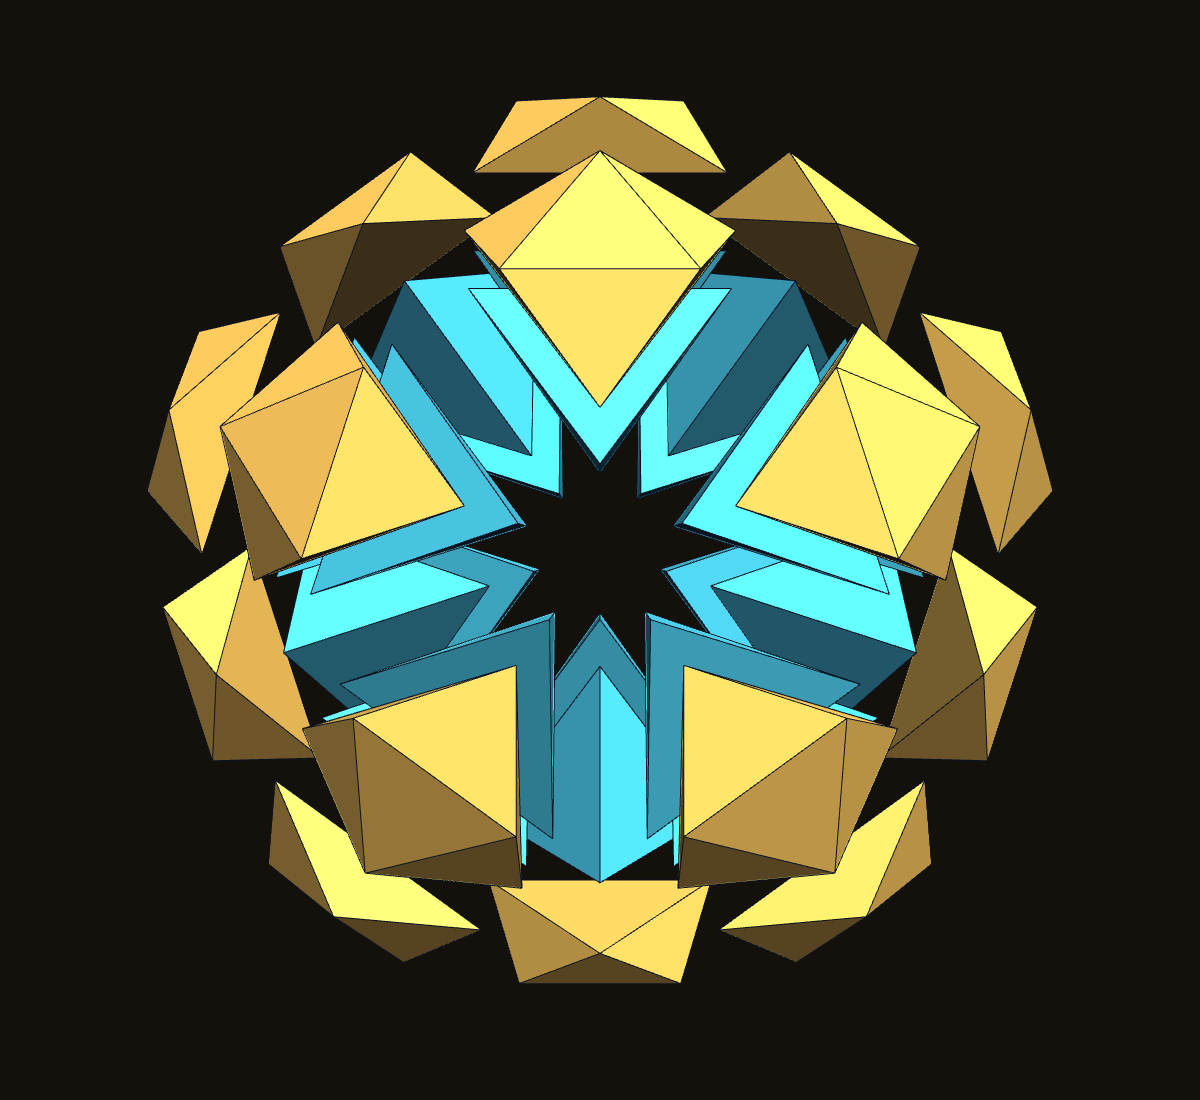
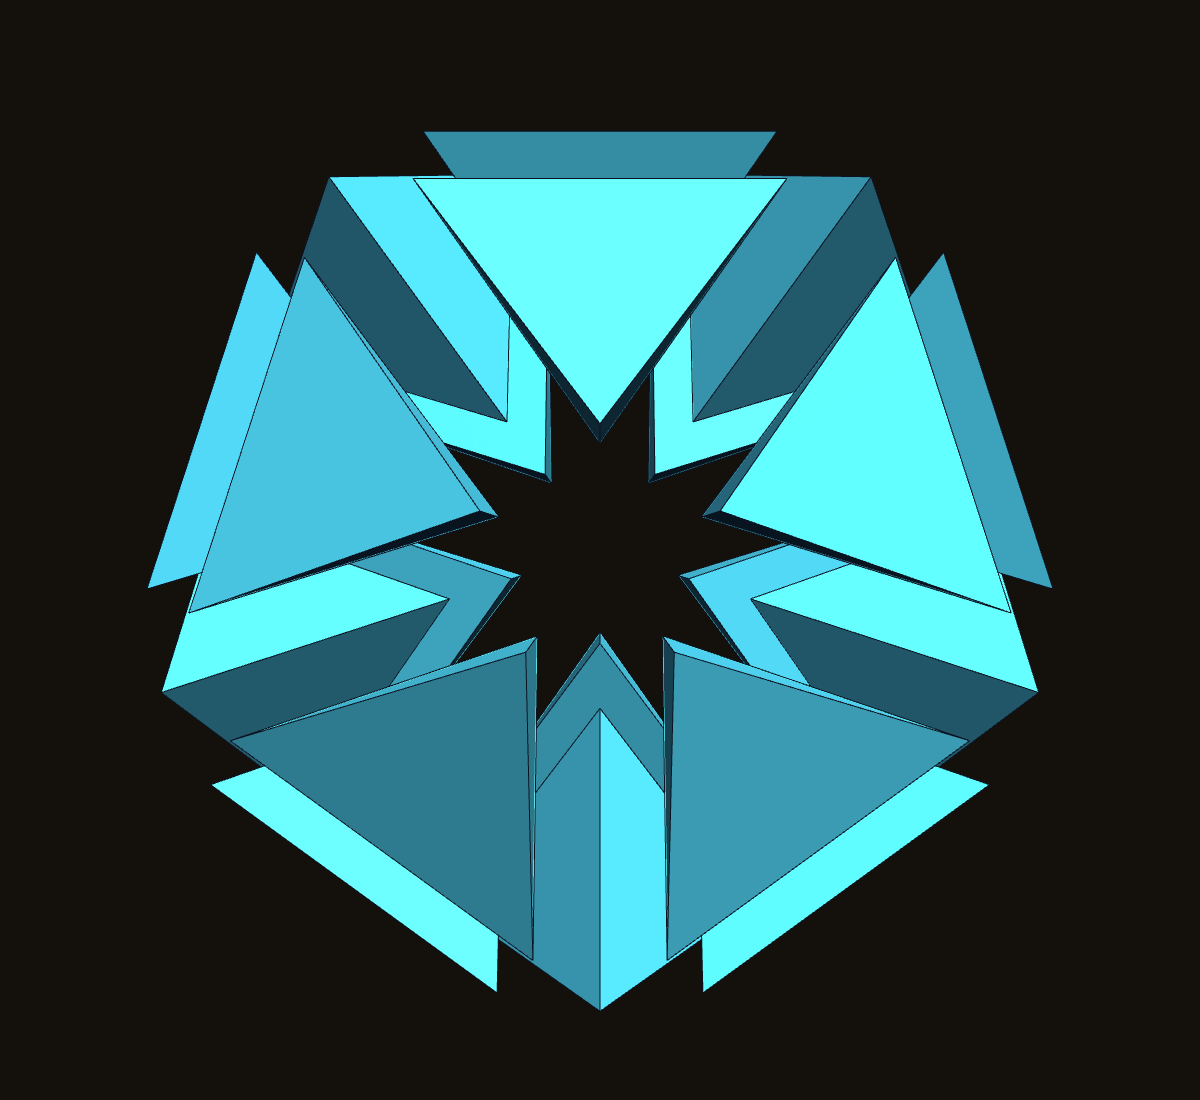
Polyhedraverse: no dome caps; the faceted bases kit is the flat icosahedron of 20 Icosahedral Cleo (DICTO)

diff --git a/studies/2026-10-14-fuji-family/scripts/cleo_sphere_kits.py b/studies/2026-10-14-fuji-family/scripts/cleo_sphere_kits.py
@@ -70,25 +70,23 @@ for f in tris:
 UNIT = units[0] - units[0].mean(0); PYR = pyrs[0] - pyrs[0].mean(0); CAP = caps[0] - caps[0].mean(0)
 pieces['DOMED_UNIT'] = ('Domed unit (Cleo + 3 Penta-cleo)', UNIT)
 pieces['ICOSA_FACE_PYRAMID'] = ('Icosahedral Cleo (face pyramid of the faceted CLEO sphere)', PYR)
-pieces['DOME_CAP'] = ('Dome cap (CLEO sphere)', CAP)
 domed = [place('DOMED_UNIT', UNIT, U) for U in units]
-faceted = [place('ICOSA_FACE_PYRAMID', PYR, P) for P in pyrs] + [place('DOME_CAP', CAP, C) for C in caps]
+faceted = [place('ICOSA_FACE_PYRAMID', PYR, P) for P in pyrs]
 vol = lambda S: ConvexHull(S).volume
 v_cleo, v_pocket, v_penta = vol(CLEO), vol(POCKET), vol(PENTA)
 checks = dict(scale_radius=side, icosidodecahedron=H.volume, kit_A=20 * v_cleo + 12 * v_pocket, kit_B=20 * v_cleo + 60 * v_penta,
-              kit_domed=20 * vol(UNIT), kit_faceted=20 * (vol(PYR) + vol(CAP)), unit_is_cleo_plus_3=abs(vol(UNIT) - v_cleo - 3 * v_penta) < 1e-9,
+              kit_domed=20 * vol(UNIT), icosahedron_from_20=20 * vol(PYR), unit_is_cleo_plus_3=abs(vol(UNIT) - v_cleo - 3 * v_penta) < 1e-9,
               icosahedron_edge=float(np.linalg.norm(pyrs[0][1] - pyrs[0][2])), icosahedron_radius=float(np.linalg.norm(pyrs[0][1])),
               cap_edges=sorted({round(float(np.linalg.norm(a - b)), 6) for a, b in itertools.combinations(CAP, 2)}), cap_volume=vol(CAP), pyramid_volume=vol(PYR),
               penta_is_fifth=abs(5 * v_penta - v_pocket) < 1e-12)
 print(checks)
 assert abs(checks['kit_A'] - H.volume) < 1e-7 and abs(checks['kit_B'] - H.volume) < 1e-7 and checks['penta_is_fifth']
-assert abs(checks['kit_domed'] - H.volume) < 1e-7 and abs(checks['kit_faceted'] - H.volume) < 1e-7 and checks['unit_is_cleo_plus_3']
+assert abs(checks['kit_domed'] - H.volume) < 1e-7 and checks['unit_is_cleo_plus_3']
 RAW = {k: dict(name=n, vertices=S.round(12).tolist(), faces=hullfaces(S)) for k, (n, S) in pieces.items()}
 KITS = {'cleoSphere': dict(label='CLEO sphere · 20 Cleo + 12 pentagonal pockets', group='cleo', entries=cleos[:1] + pockets + cleos[1:]),
         'cleoSphere.allCleo': dict(label='CLEO sphere · 20 Cleo + 60 Penta-cleo', group='cleo', entries=cleos + fifths),
         'cleoSphere.domed': dict(label='Domed icosahedron · 20 domed units', group='cleo', entries=domed),
-        'cleoSphere.faceted': dict(label='Domed icosahedron faceted · 20 face pyramids + 20 caps', group='cleo', entries=faceted),
-        'cleoSphere.icosahedron': dict(label='Icosahedron · 20 face pyramids (the faceted bases)', group='cleo', entries=faceted[:20])}
+        'cleoSphere.icosahedron': dict(label='Icosahedron · 20 face pyramids (the faceted bases)', group='cleo', entries=faceted)}
 js = ('// Generated by studies/2026-10-14-fuji-family/scripts/cleo_sphere_kits.py (DICTO 2026-10-14). Do not edit.\n'
       '// The CLEO sphere: 20 Cleo pointing inwards + 12 pentagonal pockets (or 60 Penta-cleo, DICTO\'s name) fill an icosidodecahedron.\n'
       "import { specOf } from './stellaJewel.js';\n"

diff --git a/studies/2026-10-14-fuji-family/scripts/domed_render.py b/studies/2026-10-14-fuji-family/scripts/domed_render.py
@@ -18,7 +18,7 @@ def solids(kind):
     for f in tris:
         tips = [c for c, p in zip(pc, pens) if len(set(p) & set(f)) == 2]
         if kind == 'domed': out.append(('w1', np.vstack([np.zeros(3), V[f], tips])))
-        else: out += [('w0', np.vstack([np.zeros(3), tips])), ('w2', np.vstack([V[f], tips]))]
+        else: out += [('w0', np.vstack([np.zeros(3), tips]))]
     return out
 res = {}
 for kind, ex in (('domed', 0.45), ('faceted', 0.45)):
